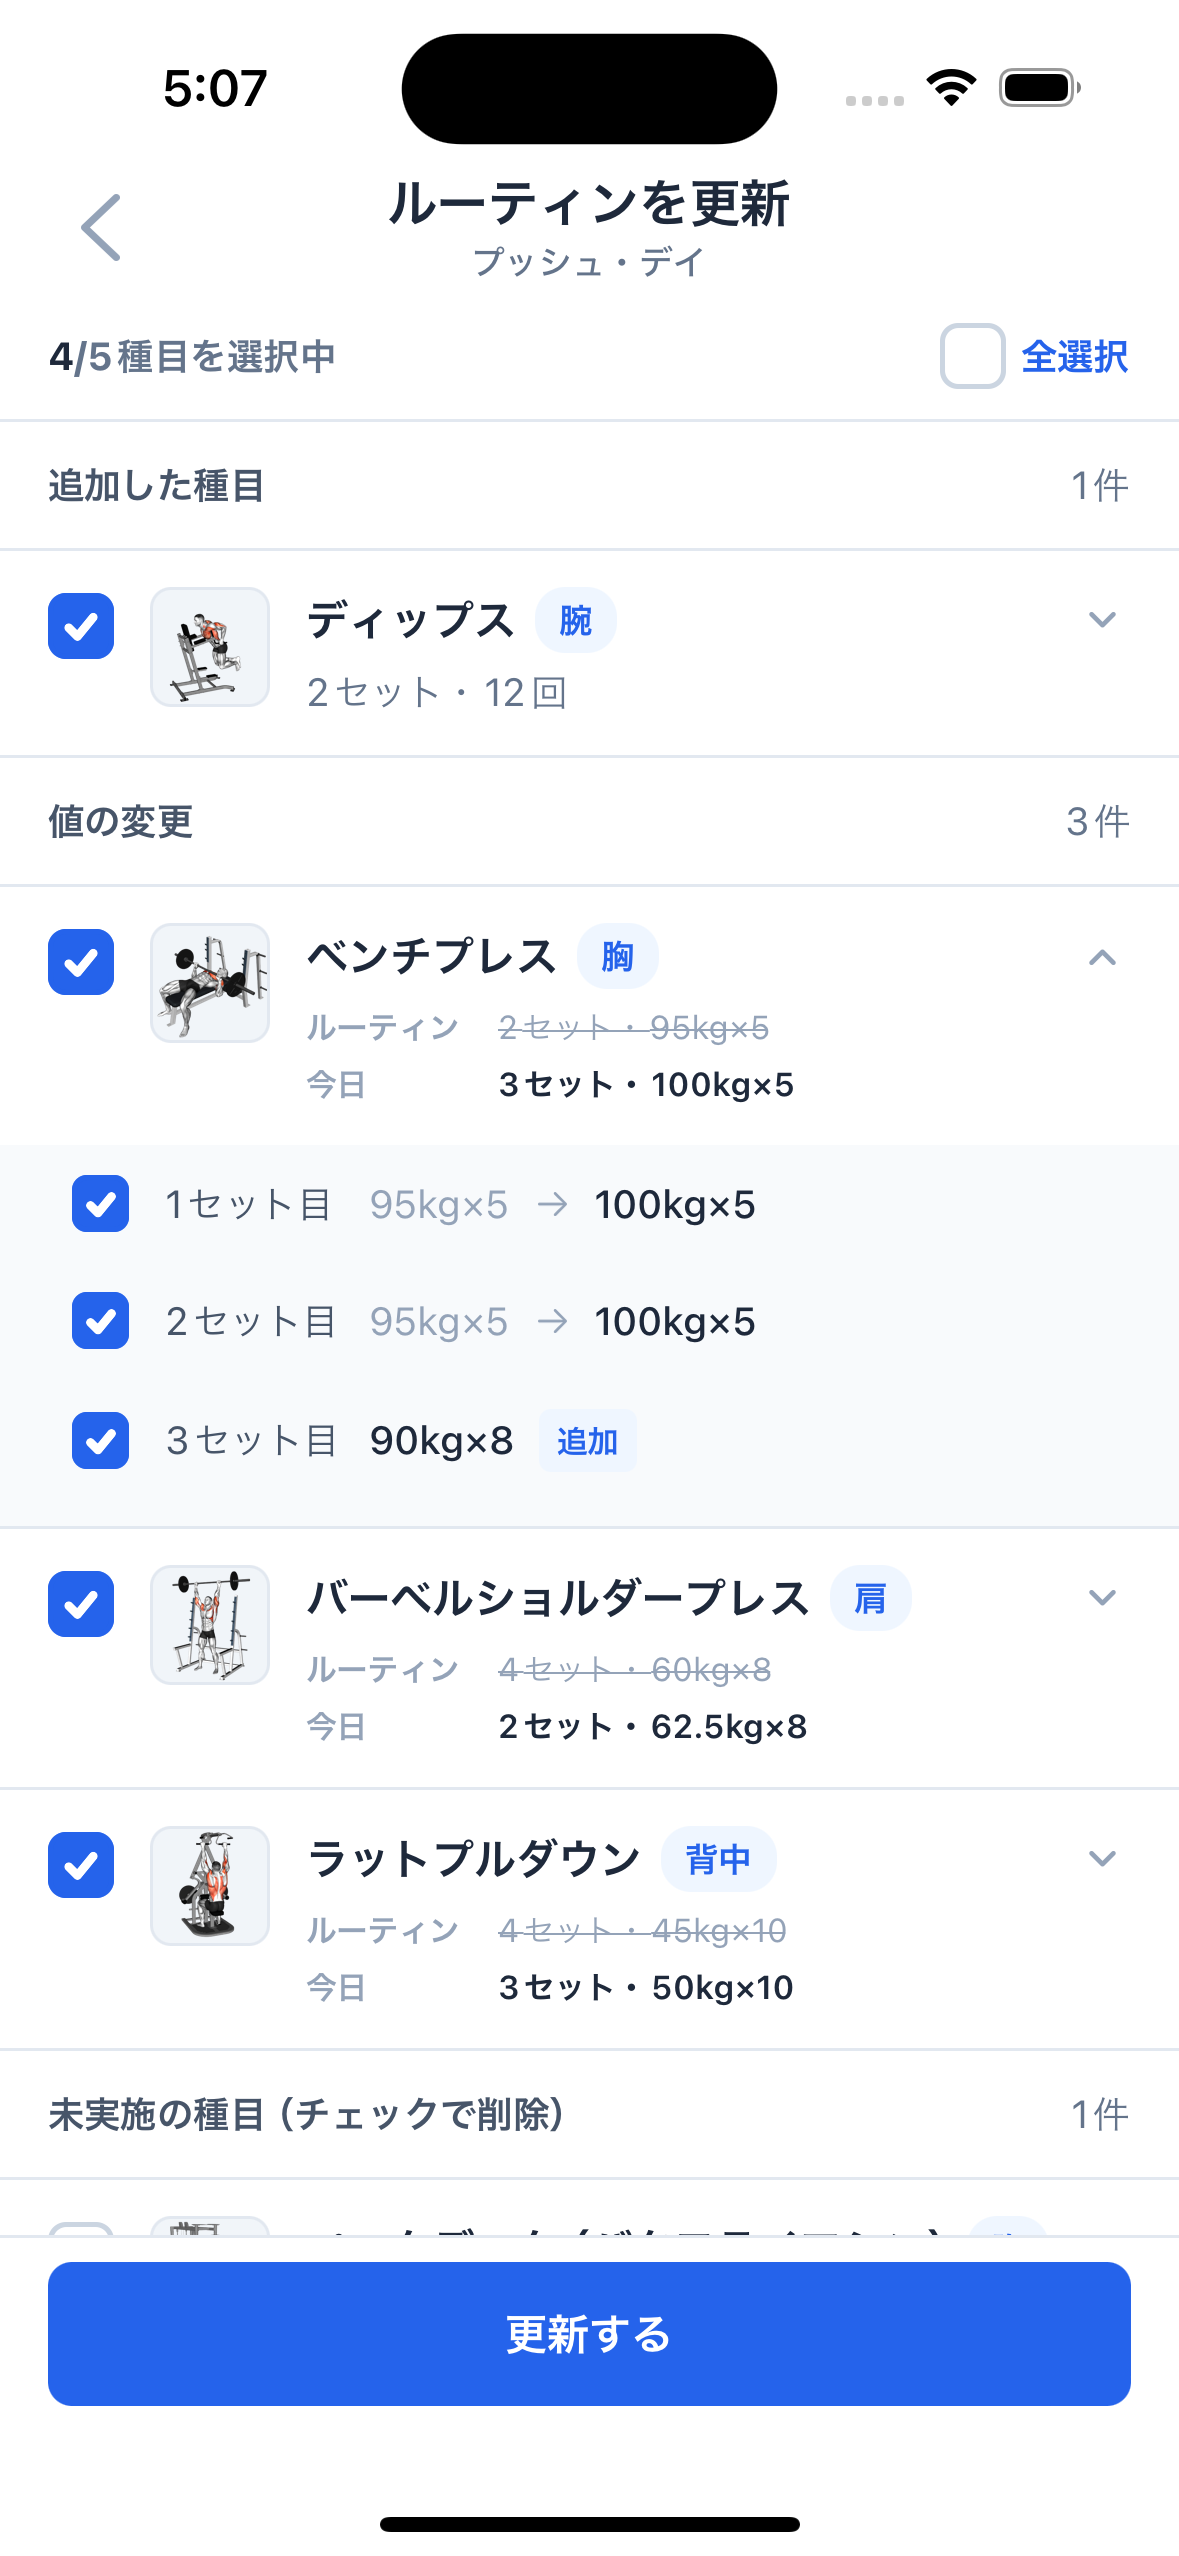
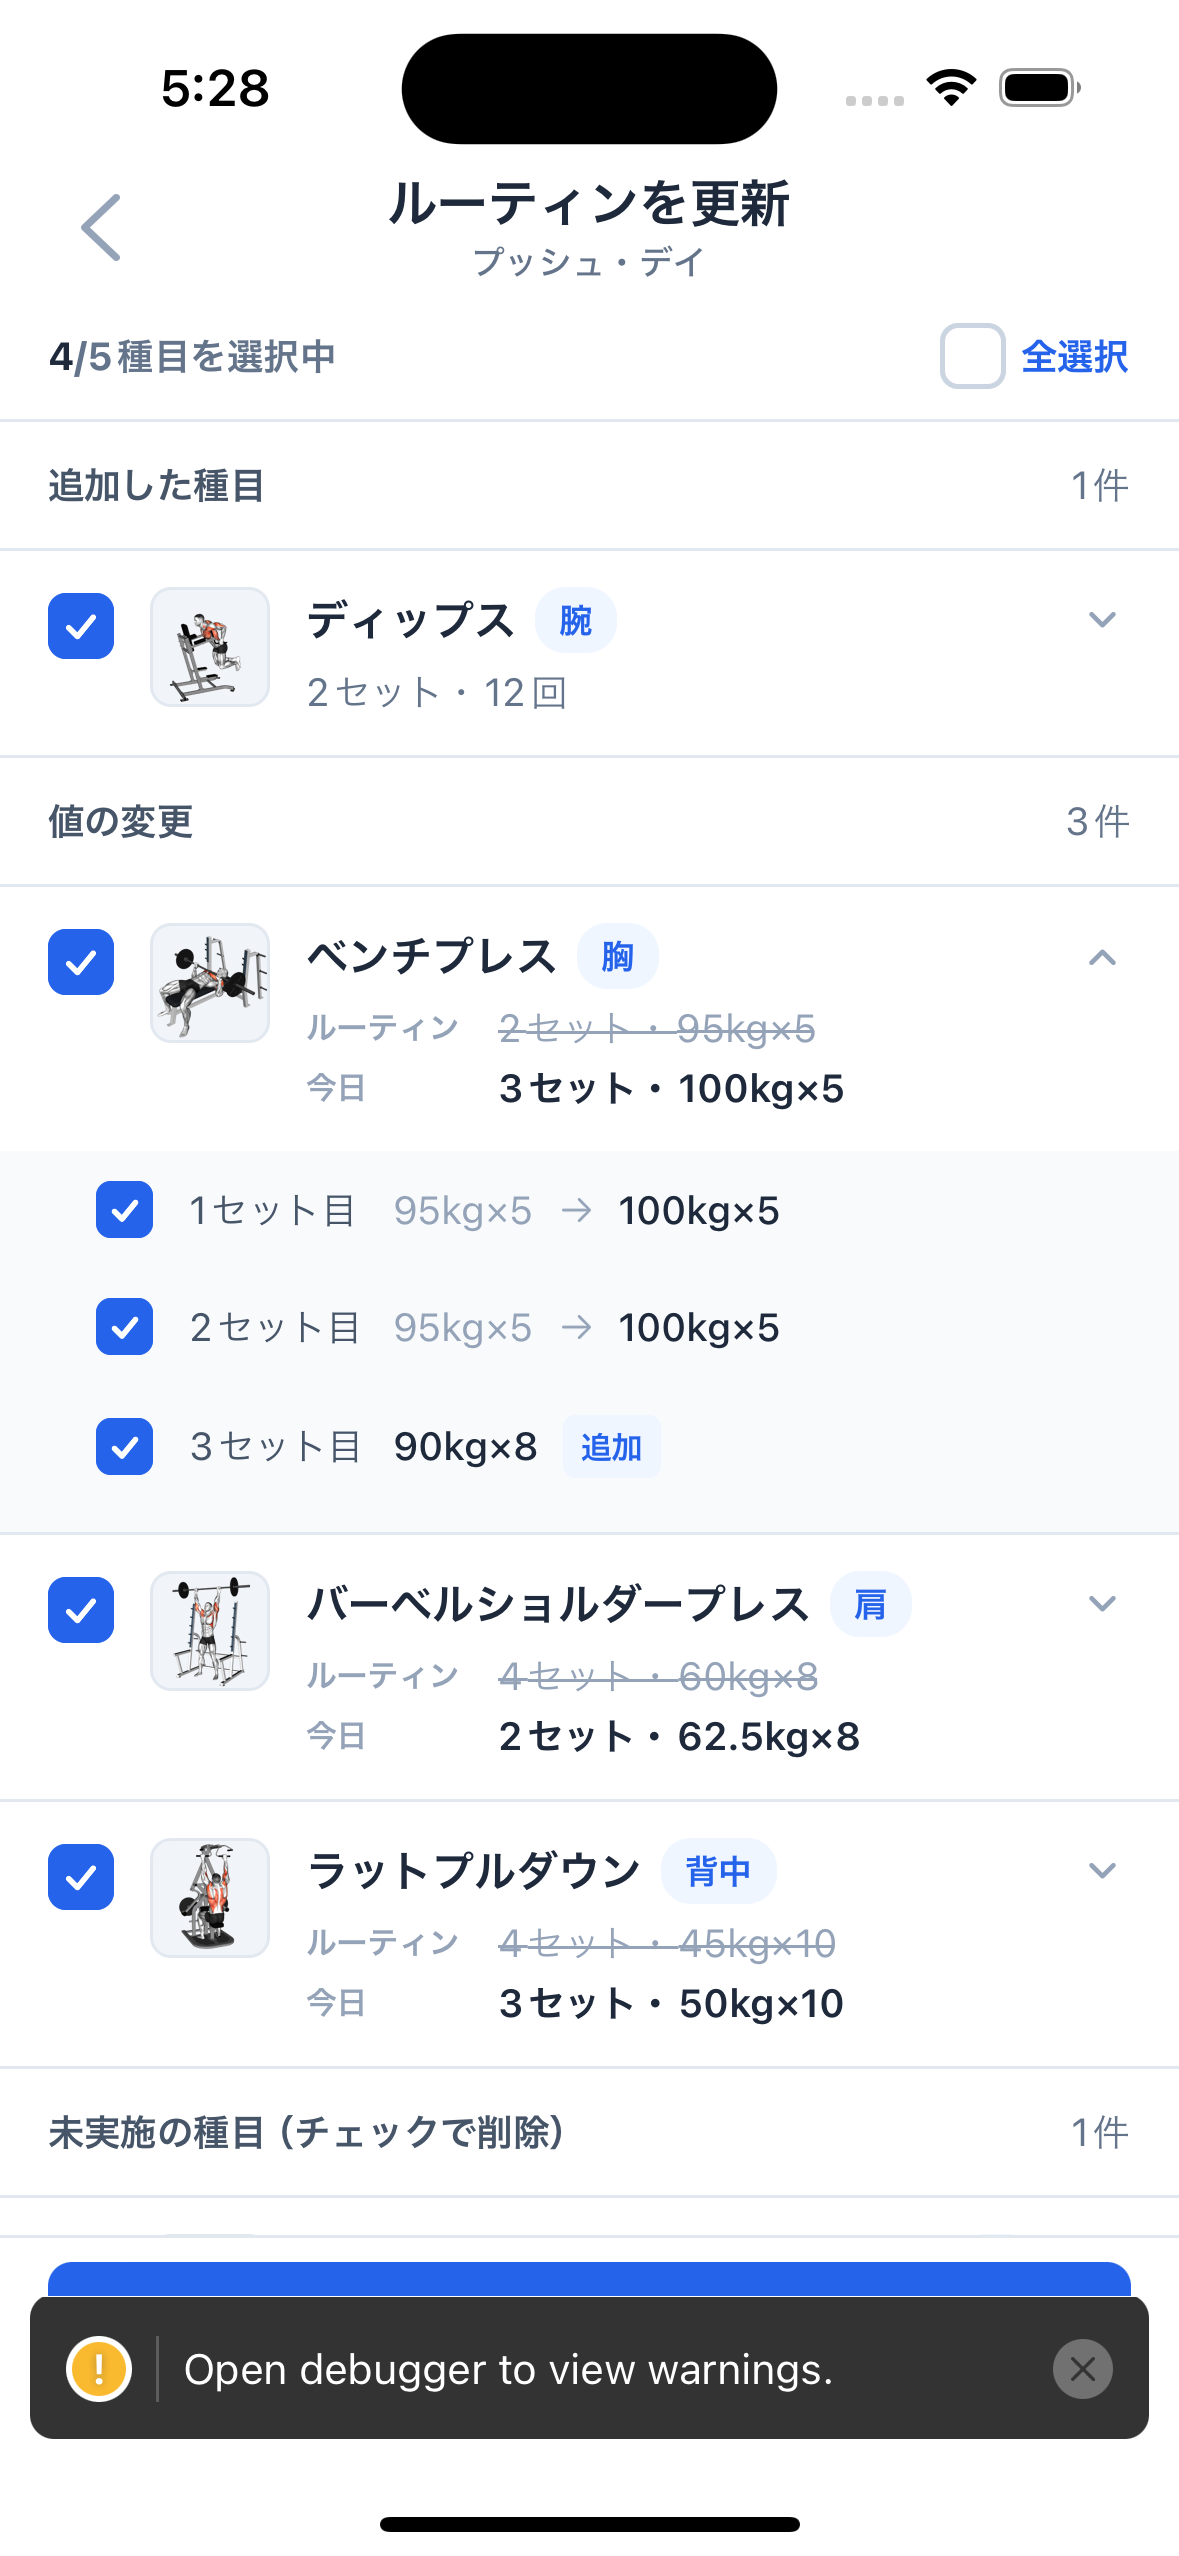
Stop the exercise name collapsing to one character, and even out sizes
marginLeft:'auto' on the trailing chevron broke shrink distribution the
moment the row overflowed: on a 390pt screen the name dropped to 「ペ…」
while the chip sat far right. A flex spacer does the same job without
poisoning the shrink. 393pt screens never showed it.

The 値の変更 rows carried their values at 11px while 追加/未実施 carried
theirs at 13px, for the same "what this exercise becomes" job. Both are
13px now.

Also: thinner tick, wider indent on the set rows, and 追加/削除 chips on
the read-only breakdowns — those reuse the set row instead of a second
implementation.

diff --git a/components/routines/routine-diff-exercise-row.tsx b/components/routines/routine-diff-exercise-row.tsx
@@ -4,8 +4,14 @@ import { Checkbox } from '@/components/ui/checkbox';
 import { DesignIcon } from '@/components/ui/design-icon';
 import { Colors, IconSizes, Typography } from '@/constants/theme';
 import { getCategoryLabel, resolveMeasurementType } from '@/lib/exercises/constants';
-import { isSetAccepted, resolveExerciseSets, type DiffExercise, type DiffSelection } from '@/lib/routines/diff';
-import { formatHistorySetSummary, MEASUREMENT_COLUMNS, summarizeExerciseSets } from '@/lib/workout/set-format';
+import {
+  isSetAccepted,
+  resolveExerciseSets,
+  type DiffExercise,
+  type DiffSelection,
+  type DiffSet,
+} from '@/lib/routines/diff';
+import { summarizeExerciseSets } from '@/lib/workout/set-format';
 import { StyleSheet, Text, TouchableOpacity, View } from 'react-native';
 
 type Props = {
@@ -48,7 +54,6 @@ export function RoutineDiffExerciseRow({
 }: Props) {
   const selected = selection.exercises.has(exercise.key);
   const measurementType = resolveMeasurementType(exercise.measurementType);
-  const columns = MEASUREMENT_COLUMNS[measurementType];
 
   const isChanged = exercise.kind === 'changed';
   // 取り消し線と「今日」側の強調は「反映される」ことの印。チェックが外れている行に付けると、
@@ -63,7 +68,13 @@ export function RoutineDiffExerciseRow({
   const todaySummary = summarizeExerciseSets(measurementType, todaySets);
   // 追加＝今日やった内容、未実施＝ルーティンから消える内容
   const singleSummary = exercise.kind === 'added' ? todaySummary : routineSummary;
-  const detailSets = exercise.kind === 'added' ? exercise.todaySets : exercise.routineSets;
+  // 追加・未実施はセット列ごと丸ごと採否を決めるため、内訳は読み取り専用。
+  // 「値の変更」のセット行と同じ組み立て（ラベル・値・種別チップ）を通したいので、
+  // セット列をそのままDiffSetの形に写して渡す
+  const detailDiffs: DiffSet[] =
+    exercise.kind === 'added'
+      ? exercise.todaySets.map((set, i) => ({ setNumber: i + 1, kind: 'added', before: null, after: set }))
+      : exercise.routineSets.map((set, i) => ({ setNumber: i + 1, kind: 'removed', before: set, after: null }));
 
   const valueLabel = isChanged
     ? `ルーティン ${routineSummary} から 今日 ${todaySummary} へ`
@@ -152,15 +163,9 @@ export function RoutineDiffExerciseRow({
                   onToggle={(setNumber) => onToggleSet(exercise.key, setNumber)}
                 />
               ))
-            : // 追加・未実施はセット列ごと丸ごと採否を決めるので内訳は読み取り専用。
-              // それでも開けるのは、何が足される／消えるかを確認できるようにするため
-              detailSets.map((set, index) => (
-                <View key={index} style={styles.readonlySet}>
-                  <Text style={styles.readonlyLabel}>{`${index + 1}セット目`}</Text>
-                  <Text style={[styles.readonlyValue, exercise.kind === 'removed' && styles.struck]}>
-                    {formatHistorySetSummary(columns, [set])}
-                  </Text>
-                </View>
+            : // 開けるようにしているのは、何が足される／消えるかを確認できるようにするため
+              detailDiffs.map((diff) => (
+                <RoutineDiffSetRow key={diff.setNumber} diff={diff} measurementType={measurementType} readOnly />
               ))}
         </View>
       )}
@@ -171,20 +176,20 @@ export function RoutineDiffExerciseRow({
 const styles = StyleSheet.create({
   block: { borderBottomWidth: 1, borderBottomColor: Colors.border },
   checkbox: { marginTop: 2 },
-  chevron: { marginLeft: 'auto', transform: [{ rotate: '90deg' }] },
-  chevronOpen: { marginLeft: 'auto', transform: [{ rotate: '270deg' }] },
+  chevron: { transform: [{ rotate: '90deg' }] },
+  chevronOpen: { transform: [{ rotate: '270deg' }] },
   singleSummary: { ...Typography.footnote, color: Colors.textMuted },
   compare: { gap: 2 },
   compareLine: { flexDirection: 'row', gap: 6 },
-  // ラベル幅を揃えると値が縦に並び、視線が上下に流れて比較しやすい
+  // ラベル幅を揃えると値が縦に並び、視線が上下に流れて比較しやすい。
+  // ラベルだけ一段小さいのは行の説明であって値ではないため。値は「追加した種目」「未実施の種目」の
+  // 要約行と同じfootnote(13px)にする——同じ「その種目がどうなるか」を伝える行なので、
+  // セクションによって文字サイズが変わる理由が無い
   compareLabel: { ...Typography.captionCompact, fontWeight: '600', color: Colors.textPlaceholder, width: 58 },
-  compareBefore: { ...Typography.captionCompact, color: Colors.textPlaceholder, flex: 1 },
-  compareAfter: { ...Typography.captionCompact, fontWeight: '600', color: Colors.textPrimary, flex: 1 },
+  compareBefore: { ...Typography.footnote, color: Colors.textPlaceholder, flex: 1 },
+  compareAfter: { ...Typography.footnote, fontWeight: '600', color: Colors.textPrimary, flex: 1 },
   struck: { textDecorationLine: 'line-through' },
   // 左右のパディングは行が持つ（左24＝親の16＋インデント8）。最後のセット行が
   // 区切り線に貼り付かないよう下に8だけ空ける
   setDetail: { paddingBottom: 8, backgroundColor: Colors.surfaceMuted },
-  readonlySet: { flexDirection: 'row', alignItems: 'center', paddingVertical: 10, paddingLeft: 24, paddingRight: 16 },
-  readonlyLabel: { ...Typography.footnote, color: Colors.textSecondary, width: 68 },
-  readonlyValue: { ...Typography.footnote, fontWeight: '500', color: Colors.textPrimary },
 });

diff --git a/components/routines/routine-diff-set-row.tsx b/components/routines/routine-diff-set-row.tsx
@@ -11,6 +11,12 @@ type Props = {
   measurementType: MeasurementType;
   checked: boolean;
   onToggle: (setNumber: number) => void;
+} | {
+  diff: DiffSet;
+  measurementType: MeasurementType;
+  // 「追加した種目」「未実施の種目」はセット列ごと丸ごと採否を決めるので、内訳は読み取り専用。
+  // チェックボックスの場所は空けたまま（同じ画面のセット行が縦に揃う）
+  readOnly: true;
 };
 
 /**
@@ -22,11 +28,13 @@ type Props = {
  *
  * 追加・削除されたセットは値の比較ができないため、値の代わりにチップで種別を示す。
  *
- * 左パディング24は親行の16に8のインデントを足したぶん。この8が階層の手がかりになるので、
- * それ以上深くしない（デザイン仕様）。セットラベルの幅を68で固定するのは、可変にすると
+ * 左パディング32は親行の16にインデントを足したぶん（デザイン仕様は24だが、実機で見て
+ * 階層の手がかりとしては浅かったため広げている）。セットラベルの幅を68で固定するのは、可変にすると
  * 「1セット目」「10セット目」で矢印の位置がずれて、縦に並んだときに読みにくくなるため。
  */
-export function RoutineDiffSetRow({ diff, measurementType, checked, onToggle }: Props) {
+export function RoutineDiffSetRow(props: Props) {
+  const { diff, measurementType } = props;
+  const readOnly = 'readOnly' in props;
   const columns = MEASUREMENT_COLUMNS[measurementType];
   const before = diff.before ? formatHistorySetSummary(columns, [diff.before]) : '';
   const after = diff.after ? formatHistorySetSummary(columns, [diff.after]) : '';
@@ -39,15 +47,9 @@ export function RoutineDiffSetRow({ diff, measurementType, checked, onToggle }: 
         ? `${label} ${before} を削除`
         : `${label} ${before} から ${after} へ変更`;
 
-  return (
-    <TouchableOpacity
-      style={styles.row}
-      onPress={() => onToggle(diff.setNumber)}
-      accessibilityRole="checkbox"
-      accessibilityState={{ checked }}
-      accessibilityLabel={accessibilityLabel}
-    >
-      <Checkbox checked={checked} size={19} />
+  const body = (
+    <>
+      {readOnly ? <View style={styles.checkboxSpacer} /> : <Checkbox checked={props.checked} size={19} />}
       <View style={styles.content}>
         <Text style={styles.label}>{label}</Text>
         {diff.kind === 'removed' ? (
@@ -72,14 +74,35 @@ export function RoutineDiffSetRow({ diff, measurementType, checked, onToggle }: 
           </>
         )}
       </View>
+    </>
+  );
+
+  if (readOnly) {
+    return (
+      <View style={styles.row} accessible accessibilityLabel={accessibilityLabel}>
+        {body}
+      </View>
+    );
+  }
+
+  return (
+    <TouchableOpacity
+      style={styles.row}
+      onPress={() => props.onToggle(diff.setNumber)}
+      accessibilityRole="checkbox"
+      accessibilityState={{ checked: props.checked }}
+      accessibilityLabel={accessibilityLabel}
+    >
+      {body}
     </TouchableOpacity>
   );
 }
 
 const styles = StyleSheet.create({
   // 上下10で行の高さは約40。行全体がタップ領域（チェックボックス単体を狙わせない）
-  row: { flexDirection: 'row', alignItems: 'center', paddingVertical: 10, paddingLeft: 24, paddingRight: 16, gap: 12 },
+  row: { flexDirection: 'row', alignItems: 'center', paddingVertical: 10, paddingLeft: 32, paddingRight: 16, gap: 12 },
   content: { flex: 1, flexDirection: 'row', alignItems: 'center' },
+  checkboxSpacer: { width: 19 },
   // 幅固定で矢印の位置を縦に揃える
   label: { ...Typography.footnote, color: Colors.textSecondary, width: 68 },
   before: { ...Typography.footnote, color: Colors.textPlaceholder },

diff --git a/components/exercises/exercise-row-frame.tsx b/components/exercises/exercise-row-frame.tsx
@@ -73,6 +73,10 @@ export function ExerciseRowFrame({
             {name}
           </Text>
           <CategoryChip category={category} />
+          {/* trailingを右端に寄せるのは、marginLeft:'auto'ではなく伸びる余白で行う。
+              auto marginは行が1ptでも溢れた瞬間に縮小の配分を壊し、種目名が
+              「ペ…」のように1文字まで潰れる（390pt端末で発生。393ptでは出ない） */}
+          {trailing != null && <View style={styles.spacer} />}
           {trailing}
         </View>
         {body}
@@ -113,5 +117,7 @@ const styles = StyleSheet.create({
   content: { flex: 1, flexDirection: 'row' },
   info: { flex: 1 },
   nameRow: { flexDirection: 'row', alignItems: 'center', gap: 6 },
+  // flexBasis 0なので、溢れたときの縮小はすべて種目名側が引き受ける（余白は0まで潰れるだけ）
+  spacer: { flex: 1 },
   name: { ...Typography.cardTitle, color: Colors.textPrimary, flexShrink: 1 },
 });

diff --git a/components/ui/checkbox.tsx b/components/ui/checkbox.tsx
@@ -14,10 +14,11 @@ type Props = {
   indeterminate?: boolean;
 };
 
-// チェックマークはボックスの62%の大きさ・線幅3・線端と角は丸（デザイン仕様）。
-// MaterialIconsのcheckは線端が角ばっていて線も細く、同じ62%でも別物に見えるため自前で描く
+// チェックマークはボックスの62%の大きさ・線端と角は丸（デザイン仕様）。
+// MaterialIconsのcheckは線端が角ばっていて線も細く、同じ62%でも別物に見えるため自前で描く。
+// 線幅は仕様が3だが、22/19pxのボックスに対しては太く見えたため2.0に落としている
 const GLYPH_RATIO = 0.62;
-const STROKE_WIDTH = 3;
+const STROKE_WIDTH = 2;
 const VIEW_BOX = 24;
 
 // 見た目のみのプレゼンテーショナルコンポーネント。タップ処理は呼び出し側のTouchableOpacityが持つ

diff --git a/__tests__/routines/routine-diff-set-row.test.tsx b/__tests__/routines/routine-diff-set-row.test.tsx
@@ -87,3 +87,17 @@ test('チェック状態を読み上げに乗せ、行全体でトグルする',
   });
   expect(onToggle).toHaveBeenCalledWith(1);
 });
+
+// 「追加した種目」「未実施の種目」の内訳。チェックボックスの場所は空けたまま、
+// 値と種別チップは「値の変更」の行と同じ組み立てにする
+test('readOnlyではチェックボックスもタップも無いが、値とチップは同じに出る', () => {
+  let instance!: ReturnType<typeof create>;
+  act(() => {
+    instance = create(<RoutineDiffSetRow diff={added} measurementType="weight_reps" readOnly />);
+  });
+  currentInstance = instance;
+  const root = instance.root;
+
+  expect(texts(root)).toEqual(['4セット目', '90kg×8', '追加']);
+  expect(root.findAllByType(TouchableOpacity)).toHaveLength(0);
+});
